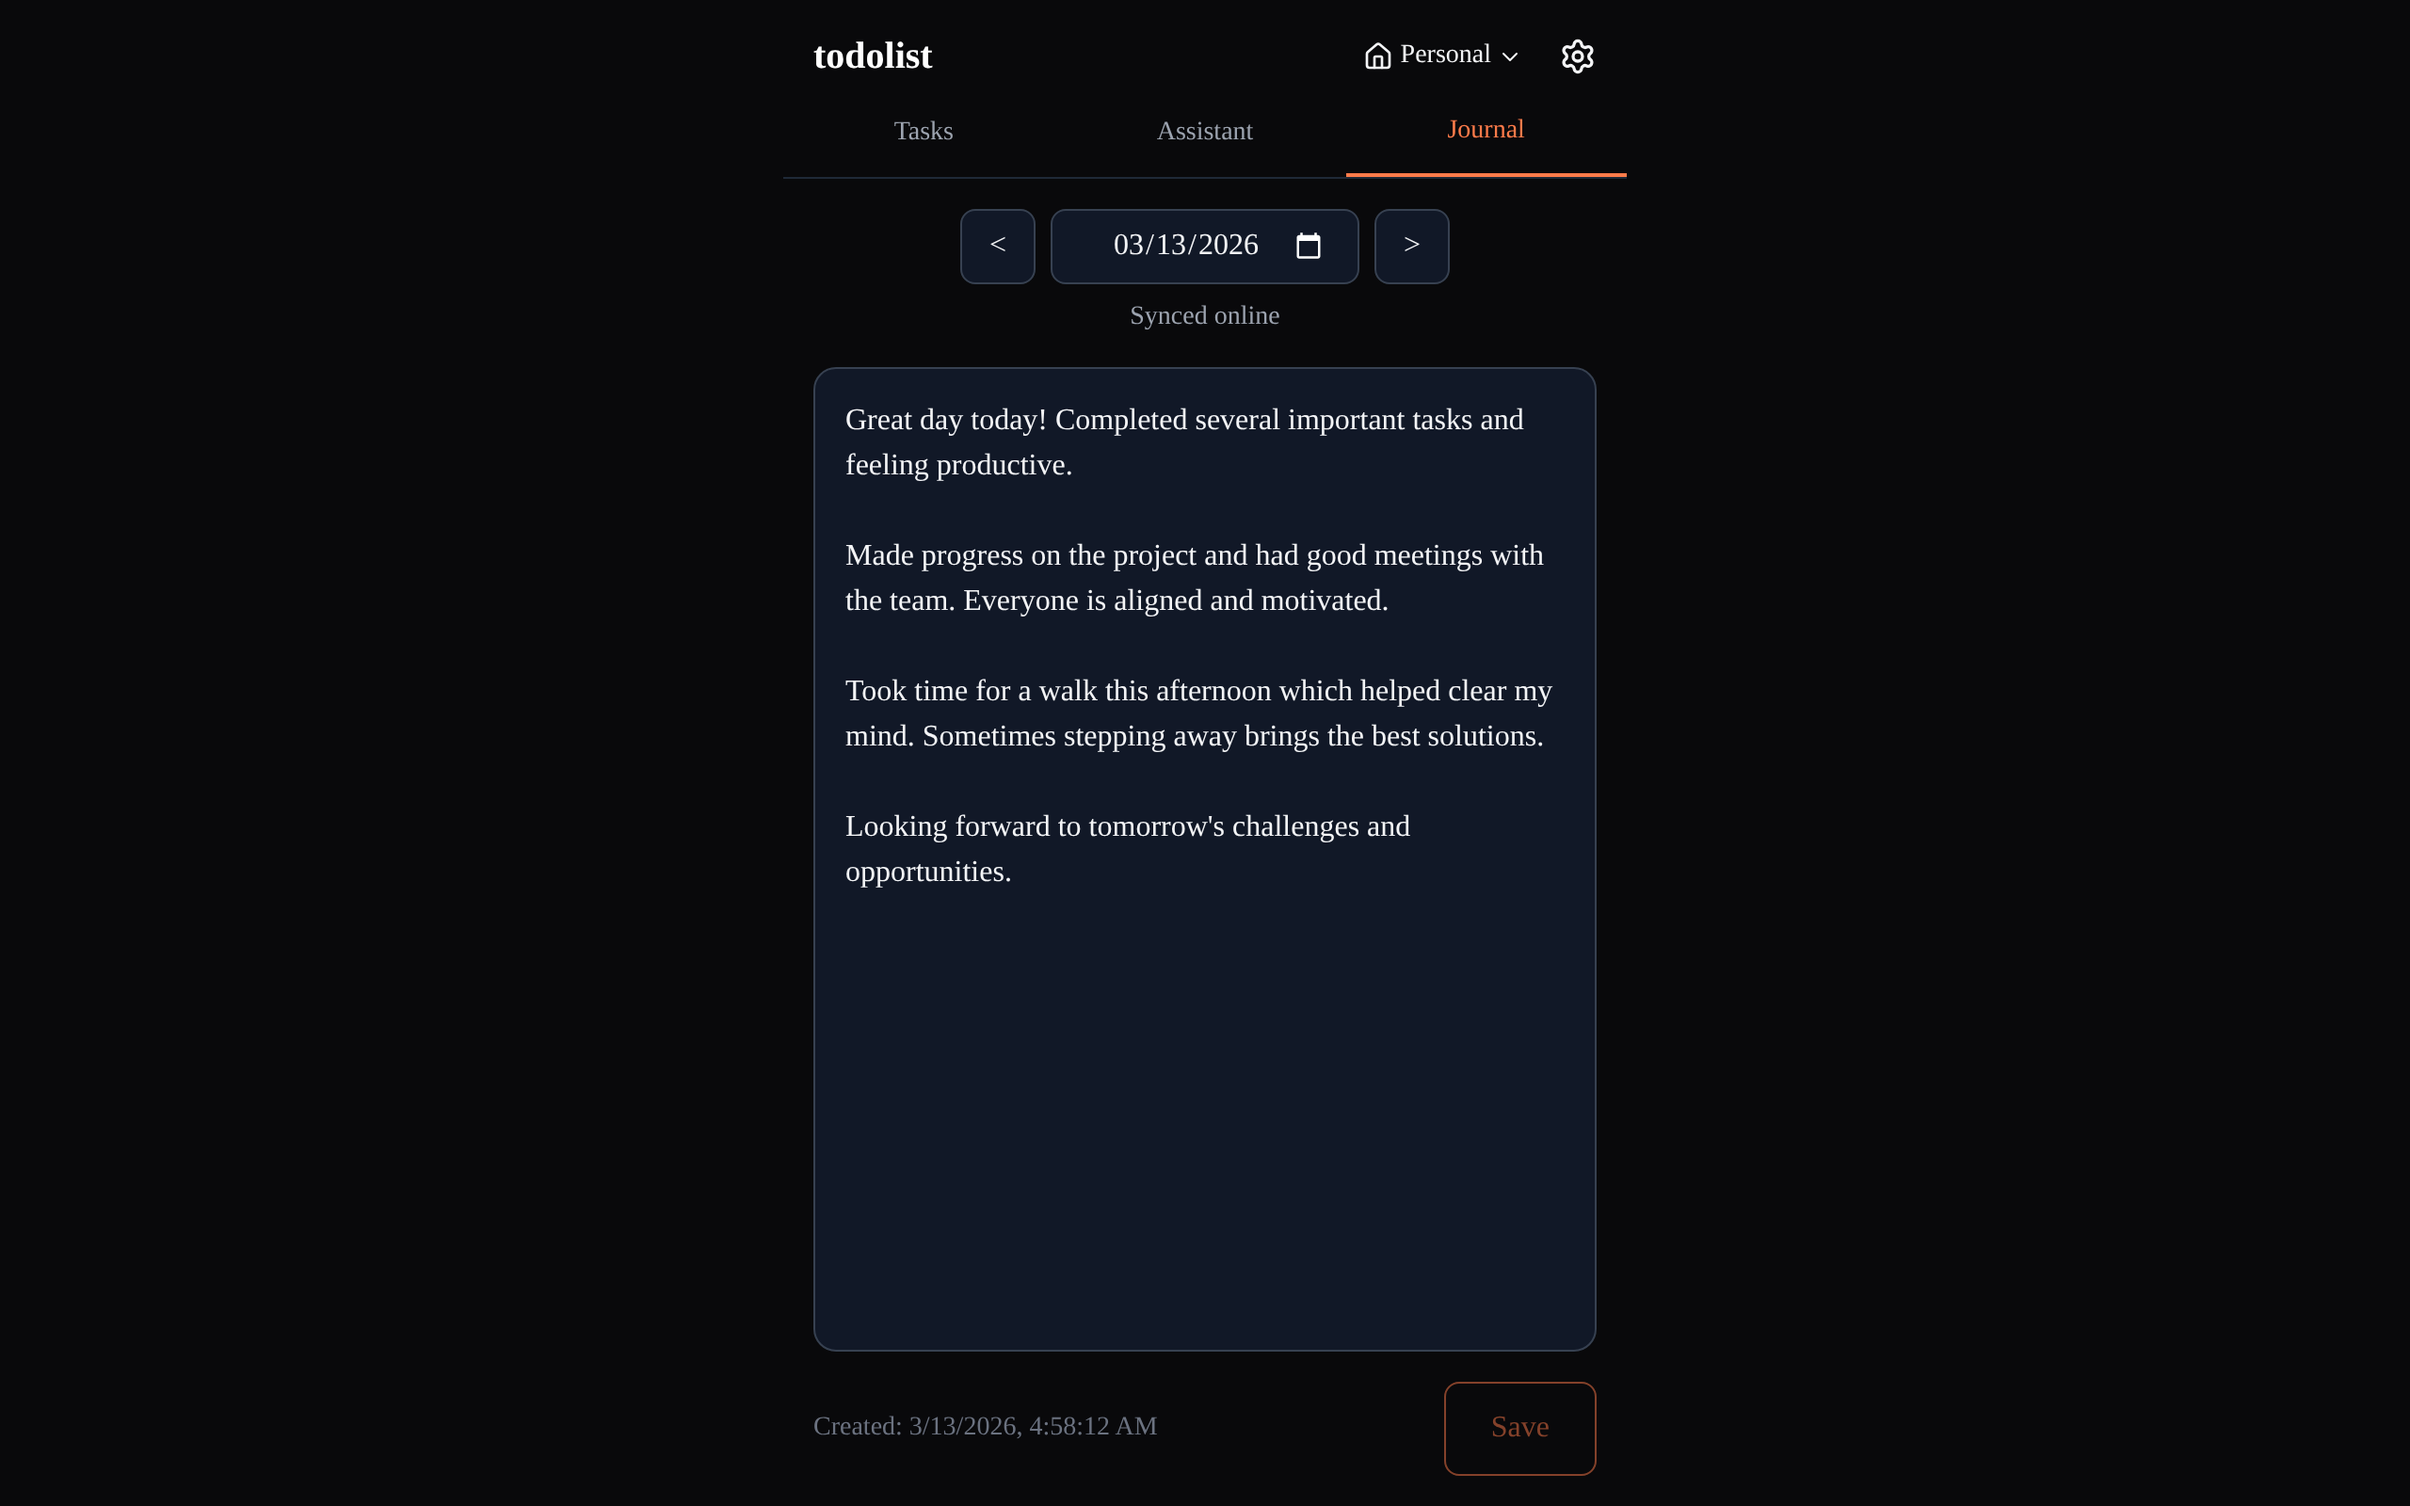
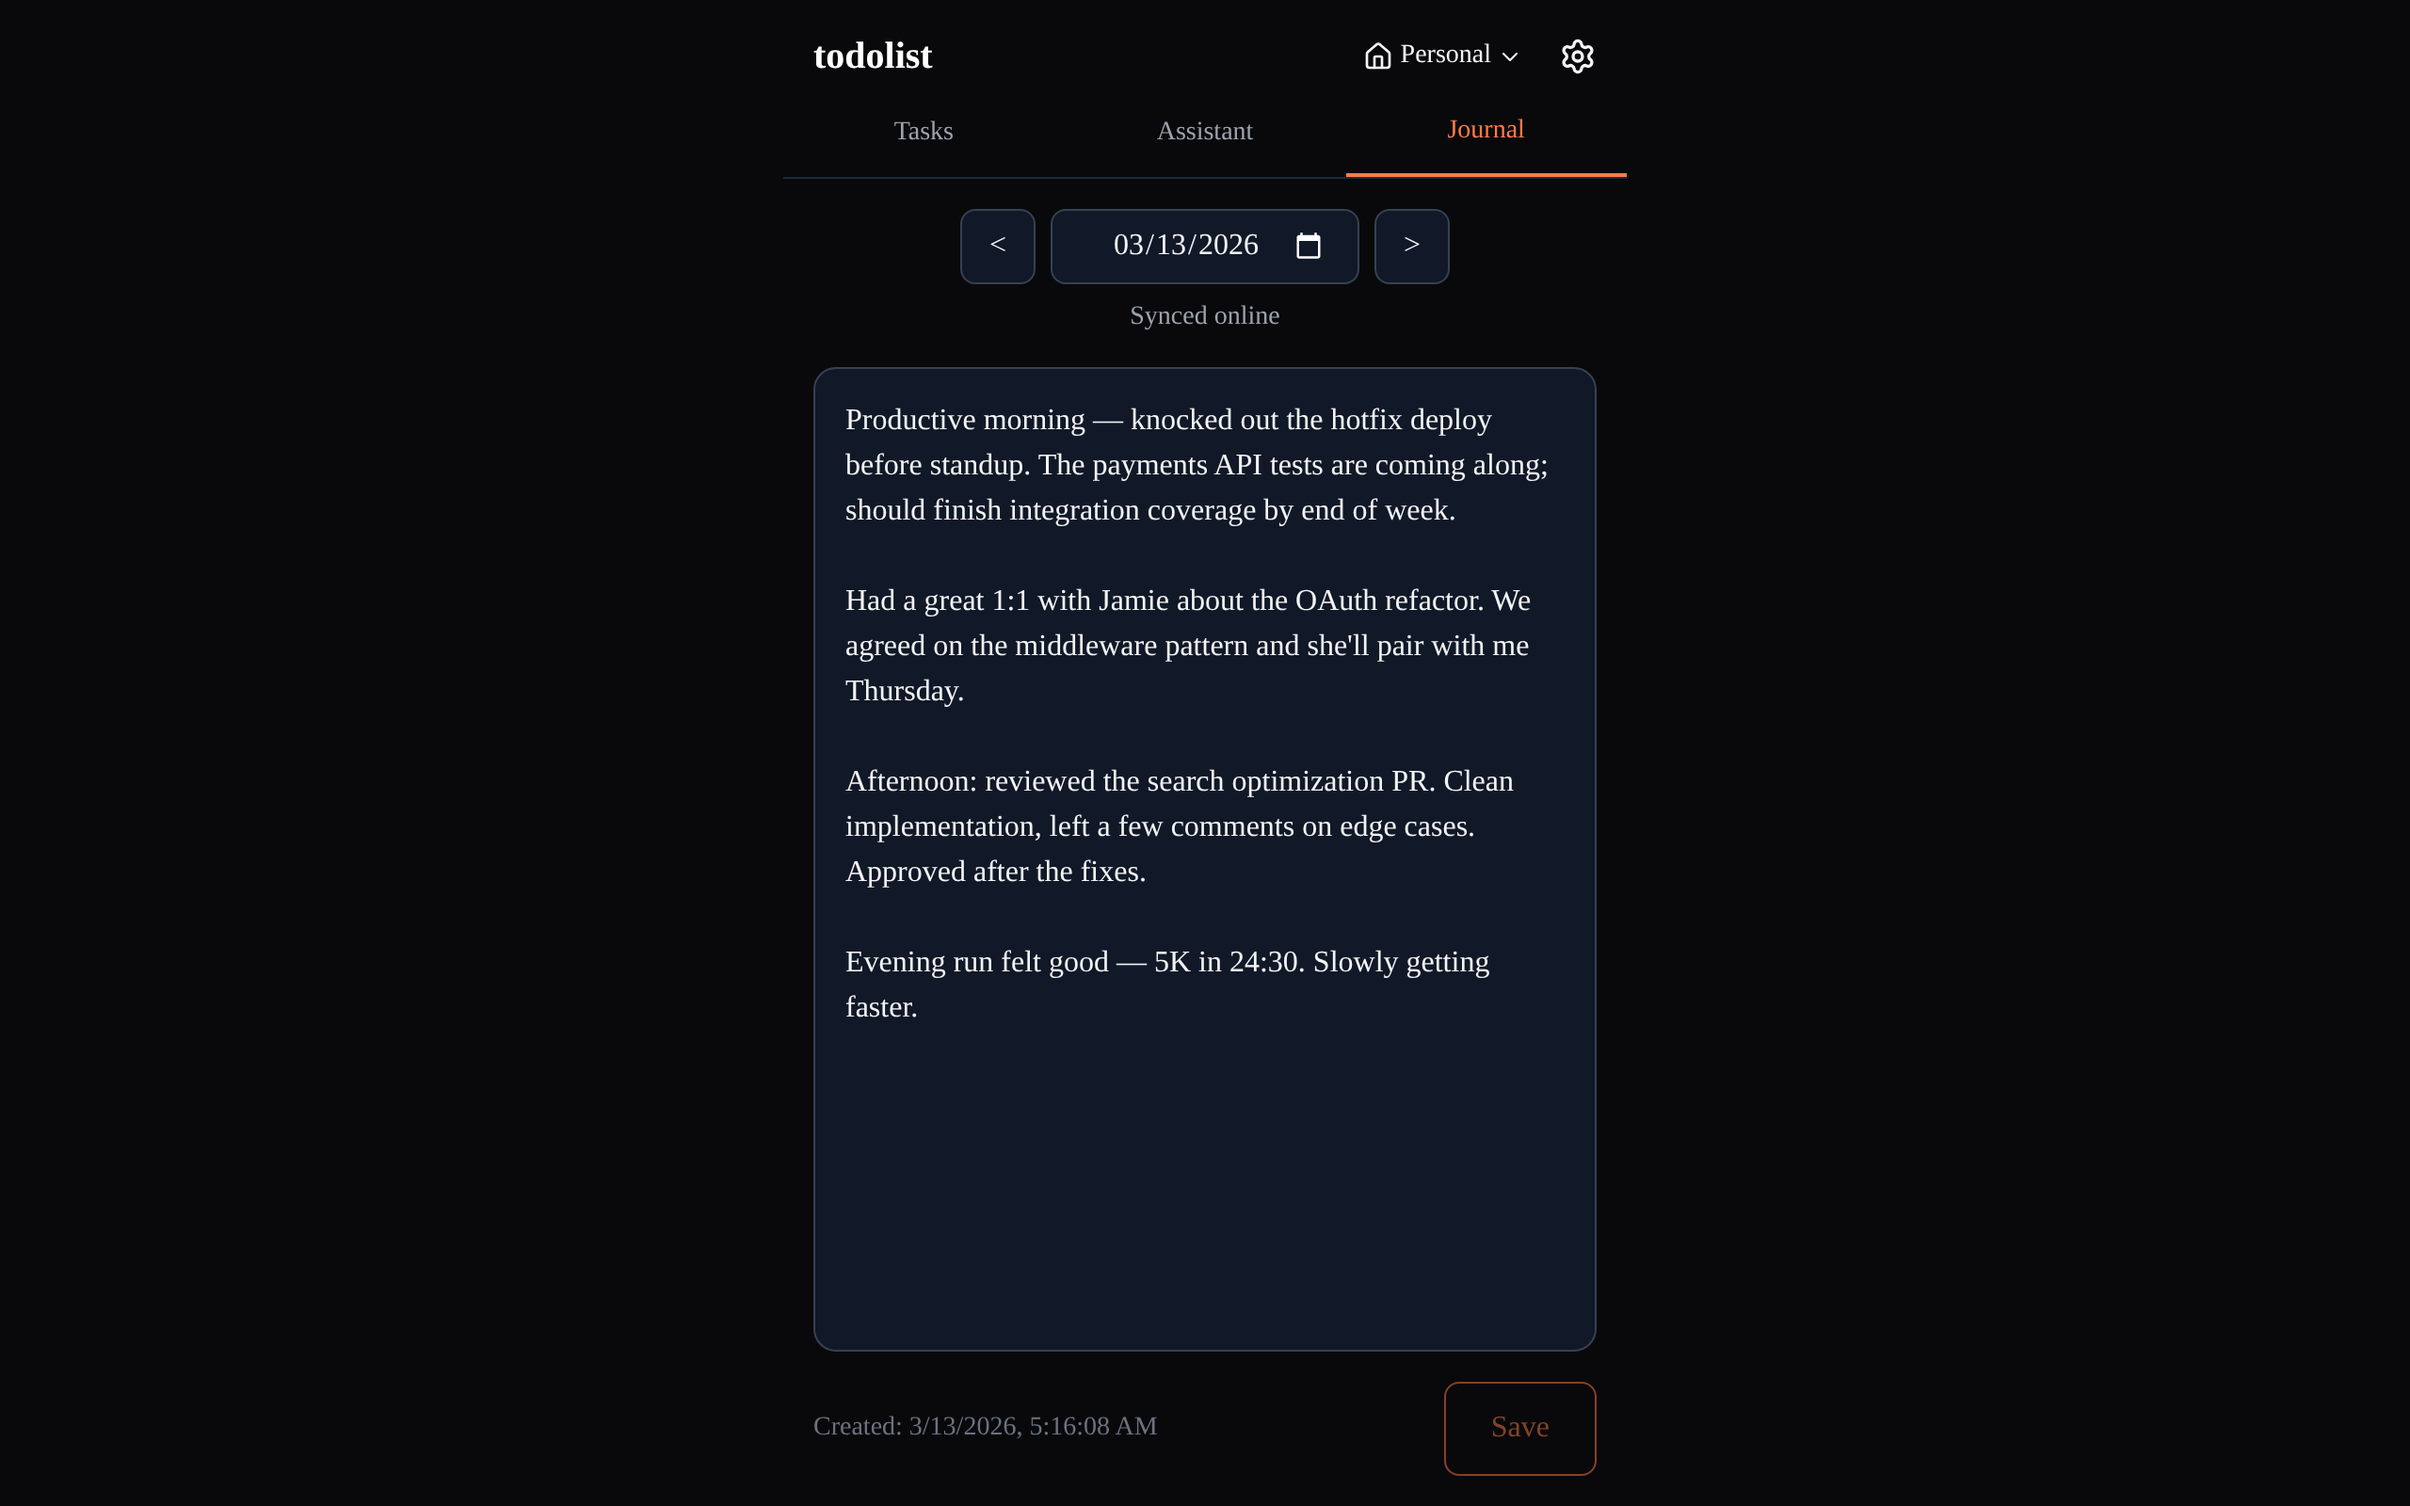
Improve screenshot script with categories, due dates, subtasks, and richer demo data
- Create categories via API (Work, Personal, Health, Learning, Errands)
  so they appear in the category filter pills
- Add due dates to tasks so the "Due: Tomorrow" / "Due: Sunday" badges show
- Add subtasks to a parent task to demonstrate the subtask feature
- Use realistic developer-oriented task names and journal entries
- Update journal entries to use relative dates instead of hardcoded ones

Changed region(s): [[0.3438, 0.25, 0.625, 0.5938], [0.3438, 0.625, 0.625, 0.6875], [0.4375, 0.9375, 0.4688, 0.9688]]

diff --git a/scripts/take-readme-screenshots.js b/scripts/take-readme-screenshots.js
@@ -99,46 +99,94 @@ function getBackendPath(pathname) {
 
   const spaceId = updatedUser.email_spaces[0];
 
-  // ── 2. Populate demo data ────────────────────────────────────
-  console.log('2. Adding demo tasks...');
+  // ── 2. Create categories ──────────────────────────────────────
+  console.log('2. Creating categories...');
+  const categories = ['Work', 'Personal', 'Health', 'Learning', 'Errands'];
+  for (const name of categories) {
+    await api('POST', '/categories', token, { name, space_id: spaceId });
+  }
+  console.log(`   Created ${categories.length} categories`);
+
+  // ── 3. Populate demo tasks ──────────────────────────────────
+  console.log('3. Adding demo tasks...');
+
+  // Helper to generate ISO date strings relative to today
+  const today = new Date();
+  const dayOffset = (days) => {
+    const d = new Date(today);
+    d.setDate(d.getDate() + days);
+    return d.toISOString().slice(0, 10);
+  };
+
   const todos = [
-    { text: 'Review Q4 project proposals', completed: false, category: 'Work' },
-    { text: 'Prepare slides for Monday team meeting', completed: false, category: 'Work' },
-    { text: 'Update project documentation', completed: true, category: 'Work' },
-    { text: 'Fix bug in authentication system', completed: true, category: 'Work' },
-    { text: 'Optimize database queries', completed: false, category: 'Work' },
-    { text: 'Schedule 1:1 with team members', completed: false, category: 'Work' },
-    { text: 'Book dentist appointment', completed: false, category: 'Personal' },
-    { text: 'Plan weekend hiking trip', completed: false, category: 'Personal' },
-    { text: 'Call mom for her birthday', completed: true, category: 'Personal' },
-    { text: 'Review monthly budget', completed: false, category: 'Personal' },
-    { text: 'Morning yoga session', completed: true, category: 'Health' },
-    { text: 'Meal prep for the week', completed: false, category: 'Health' },
-    { text: 'Schedule annual checkup', completed: false, category: 'Health' },
-    { text: 'Complete Python course module', completed: false, category: 'Learning' },
-    { text: 'Read Atomic Habits chapter 3', completed: true, category: 'Learning' },
-    { text: 'Practice Spanish on Duolingo', completed: false, category: 'Learning' },
-    { text: 'Buy groceries for dinner party', completed: false, category: 'Shopping' },
-    { text: 'Order new running shoes', completed: true, category: 'Shopping' },
+    // Work tasks — mix of active, completed, with due dates
+    { text: 'Review Q1 roadmap and update milestones', completed: false, category: 'Work', priority: 'High', dueDate: dayOffset(2) },
+    { text: 'Prepare slides for Monday standup', completed: false, category: 'Work', priority: 'High', dueDate: dayOffset(1) },
+    { text: 'Deploy v2.4 hotfix to production', completed: true, category: 'Work', priority: 'High' },
+    { text: 'Write integration tests for payments API', completed: false, category: 'Work', priority: 'Medium', dueDate: dayOffset(5) },
+    { text: 'Refactor auth middleware to support OAuth', completed: false, category: 'Work', priority: 'Medium', dueDate: dayOffset(7) },
+    { text: 'Code review: PR #218 search optimization', completed: true, category: 'Work', priority: 'Medium' },
+    { text: 'Update CI pipeline for Node 22', completed: true, category: 'Work', priority: 'Low' },
+
+    // Personal tasks
+    { text: 'Plan weekend trip to the mountains', completed: false, category: 'Personal', priority: 'Medium', dueDate: dayOffset(4) },
+    { text: 'Call insurance about renewal', completed: false, category: 'Personal', priority: 'High', dueDate: dayOffset(1) },
+    { text: 'Send birthday gift to Sarah', completed: true, category: 'Personal', priority: 'High' },
+    { text: 'Organize closet and donate old clothes', completed: false, category: 'Personal', priority: 'Low' },
+
+    // Health tasks
+    { text: 'Schedule annual physical', completed: false, category: 'Health', priority: 'Medium', dueDate: dayOffset(10) },
+    { text: 'Meal prep: chicken + veggie bowls', completed: false, category: 'Health', priority: 'Medium', dueDate: dayOffset(0) },
+    { text: 'Morning run — 5K', completed: true, category: 'Health', priority: 'Low' },
+    { text: 'Refill prescriptions at pharmacy', completed: false, category: 'Health', priority: 'High', dueDate: dayOffset(2) },
+
+    // Learning tasks
+    { text: 'Finish Rust ownership chapter', completed: false, category: 'Learning', priority: 'Medium', dueDate: dayOffset(3) },
+    { text: 'Watch MIT distributed systems lecture 6', completed: false, category: 'Learning', priority: 'Low' },
+    { text: 'Complete LeetCode daily challenge', completed: true, category: 'Learning', priority: 'Medium' },
+
+    // Errands
+    { text: 'Pick up dry cleaning', completed: false, category: 'Errands', priority: 'Low', dueDate: dayOffset(1) },
+    { text: 'Return Amazon package at UPS', completed: false, category: 'Errands', priority: 'Medium', dueDate: dayOffset(0) },
+    { text: 'Get car oil change', completed: true, category: 'Errands', priority: 'Medium' },
   ];
+
+  const createdTodos = [];
   for (const todo of todos) {
-    await api('POST', '/todos', token, { ...todo, space_id: spaceId });
+    const result = await api('POST', '/todos', token, { ...todo, space_id: spaceId });
+    createdTodos.push(result);
   }
   console.log(`   Added ${todos.length} tasks`);
 
-  console.log('3. Adding journal entries...');
+  // ── 4. Add subtasks to a parent task ─────────────────────────
+  console.log('4. Adding subtasks...');
+  // Find the "Review Q1 roadmap" task to add subtasks to
+  const parentTodo = createdTodos[0]; // "Review Q1 roadmap and update milestones"
+  const subtasks = [
+    { text: 'Collect team status updates', completed: true, category: 'Work', priority: 'Medium' },
+    { text: 'Draft milestone timeline', completed: true, category: 'Work', priority: 'Medium' },
+    { text: 'Review with engineering leads', completed: false, category: 'Work', priority: 'High' },
+    { text: 'Finalize and share with stakeholders', completed: false, category: 'Work', priority: 'High' },
+  ];
+  for (const sub of subtasks) {
+    await api('POST', '/todos', token, { ...sub, space_id: spaceId, parent_id: parentTodo._id });
+  }
+  console.log(`   Added ${subtasks.length} subtasks`);
+
+  // ── 5. Add journal entries ───────────────────────────────────
+  console.log('5. Adding journal entries...');
   const journals = [
-    { date: '2026-03-13', text: 'Great day today! Completed several important tasks and feeling productive.\n\nMade progress on the project and had good meetings with the team. Everyone is aligned and motivated.\n\nTook time for a walk this afternoon which helped clear my mind. Sometimes stepping away brings the best solutions.\n\nLooking forward to tomorrow\'s challenges and opportunities.' },
-    { date: '2026-03-12', text: 'Solid progress today despite some unexpected challenges.\n\nDebugged a tricky issue that took longer than expected, but learned a lot in the process.\n\nHad an excellent brainstorming session with the team. New ideas are flowing.\n\nEvening was relaxing - caught up on reading and planned tomorrow\'s priorities.' },
-    { date: '2026-03-11', text: 'Wrapped up the week strong and feeling accomplished.\n\nCompleted all planned tasks and tackled items from the backlog.\n\nTeam sync was productive - everyone\'s excited about what we\'re building.' },
+    { date: dayOffset(0), text: 'Productive morning — knocked out the hotfix deploy before standup. The payments API tests are coming along; should finish integration coverage by end of week.\n\nHad a great 1:1 with Jamie about the OAuth refactor. We agreed on the middleware pattern and she\'ll pair with me Thursday.\n\nAfternoon: reviewed the search optimization PR. Clean implementation, left a few comments on edge cases. Approved after the fixes.\n\nEvening run felt good — 5K in 24:30. Slowly getting faster.' },
+    { date: dayOffset(-1), text: 'Deep work day. Spent most of the morning on the Rust ownership chapter — the borrow checker is finally clicking.\n\nLunch break: watched half of the MIT distributed systems lecture. Raft consensus is elegant.\n\nAfternoon was errands and life admin. Got the car serviced, picked up prescriptions.\n\nPlanning the mountain trip this weekend. Found a cabin with good reviews near the trailhead.' },
+    { date: dayOffset(-2), text: 'Monday standup went well — team is aligned on Q1 priorities.\n\nSpent the day on CI pipeline migration to Node 22. A few package compatibility issues but nothing major. Tests all passing now.\n\nSarah loved the birthday gift! The personalized notebook was a good call.\n\nWinding down with some LeetCode — the daily challenge was a fun graph problem.' },
   ];
   for (const j of journals) {
     await api('POST', '/journals', token, { ...j, space_id: spaceId });
   }
   console.log('   Added 3 journal entries');
 
-  // ── 3. Launch browser with route interception ────────────────
-  console.log('\n4. Launching browser...');
+  // ── 6. Launch browser with route interception ────────────────
+  console.log('\n6. Launching browser...');
   const browser = await chromium.launch({ headless: true });
 
   // Disable service worker so we control all routing
@@ -248,10 +296,20 @@ function getBackendPath(pathname) {
     await page.waitForTimeout(2000);
   };
 
-  // ── Task List ──────────────────────────────────────────────────
-  console.log('\n5. Taking screenshots...');
+  // ── Task List (Active tab) ──────────────────────────────────────
+  console.log('\n7. Taking screenshots...');
   await goTab('Tasks');
   await page.waitForTimeout(2000);
+
+  // Try to expand subtasks on the first task if there's a toggle button
+  try {
+    const subtaskToggle = await page.$('button[title*="subtask" i], button[aria-label*="subtask" i], [data-testid="subtask-toggle"]');
+    if (subtaskToggle) {
+      await subtaskToggle.click();
+      await page.waitForTimeout(1000);
+    }
+  } catch {}
+
   await ss('task-list.png');
 
   // ── Journal ────────────────────────────────────────────────────
